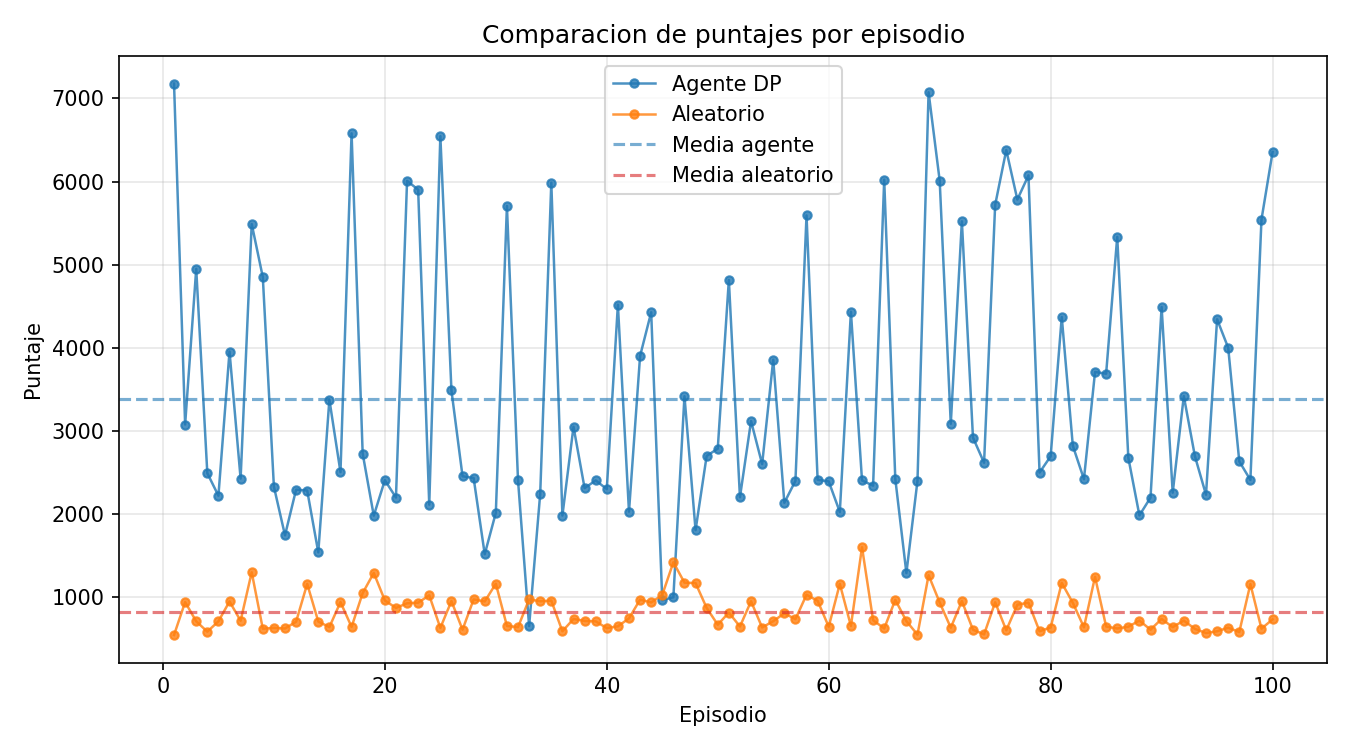
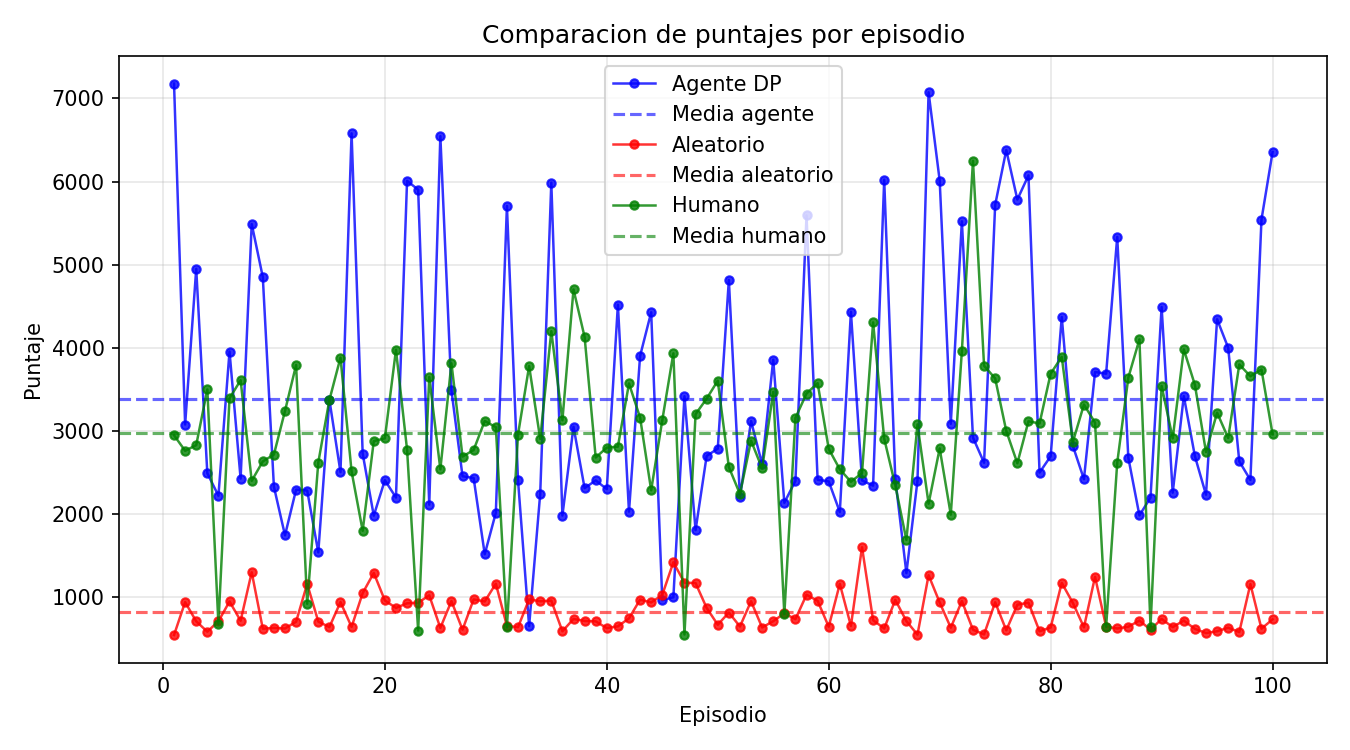
Incluye humano en scores y medias de las tres series

diff --git a/plot_results.py b/plot_results.py
@@ -25,23 +25,37 @@ def main():
     parser = argparse.ArgumentParser(description="Grafica resultados de Dino")
     parser.add_argument("--agent_csv", type=Path, required=True, help="CSV de puntajes del agente DP")
     parser.add_argument("--random_csv", type=Path, required=True, help="CSV de puntajes del baseline aleatorio")
+    parser.add_argument("--human_csv", type=Path, default=None, help="CSV de puntajes de humano (opcional)")
     parser.add_argument("--out", type=Path, default=Path("scores.png"), help="Ruta de salida de la imagen")
     args = parser.parse_args()
 
     agent_scores, _ = read_scores(args.agent_csv)
     random_scores, _ = read_scores(args.random_csv)
+    human_scores = []
+    if args.human_csv:
+        human_scores, _ = read_scores(args.human_csv)
 
     describe("Agente DP", agent_scores)
     describe("Aleatorio", random_scores)
+    if human_scores:
+        describe("Humano", human_scores)
 
     fig, ax = plt.subplots(figsize=(9, 5))
-    episodes_agent = list(range(1, len(agent_scores) + 1))
-    episodes_random = list(range(1, len(random_scores) + 1))
     line_kwargs = dict(linewidth=1.2, markersize=4, alpha=0.8)
-    ax.plot(episodes_agent, agent_scores, marker="o", label="Agente DP", **line_kwargs)
-    ax.plot(episodes_random, random_scores, marker="o", label="Aleatorio", **line_kwargs)
-    ax.axhline(stats.mean(agent_scores), color="#1f77b4", linestyle="--", alpha=0.6, label="Media agente")
-    ax.axhline(stats.mean(random_scores), color="#d62728", linestyle="--", alpha=0.6, label="Media aleatorio")
+
+    episodes_agent = list(range(1, len(agent_scores) + 1))
+    ax.plot(episodes_agent, agent_scores, marker="o", label="Agente DP", color="blue", **line_kwargs)
+    ax.axhline(stats.mean(agent_scores), color="blue", linestyle="--", alpha=0.6, label="Media agente")
+
+    episodes_random = list(range(1, len(random_scores) + 1))
+    ax.plot(episodes_random, random_scores, marker="o", label="Aleatorio", color="red", **line_kwargs)
+    ax.axhline(stats.mean(random_scores), color="red", linestyle="--", alpha=0.6, label="Media aleatorio")
+
+    if human_scores:
+        episodes_human = list(range(1, len(human_scores) + 1))
+        ax.plot(episodes_human, human_scores, marker="o", label="Humano", color="green", **line_kwargs)
+        ax.axhline(stats.mean(human_scores), color="green", linestyle="--", alpha=0.6, label="Media humano")
+
     ax.set_xlabel("Episodio")
     ax.set_ylabel("Puntaje")
     ax.set_title("Comparacion de puntajes por episodio")
